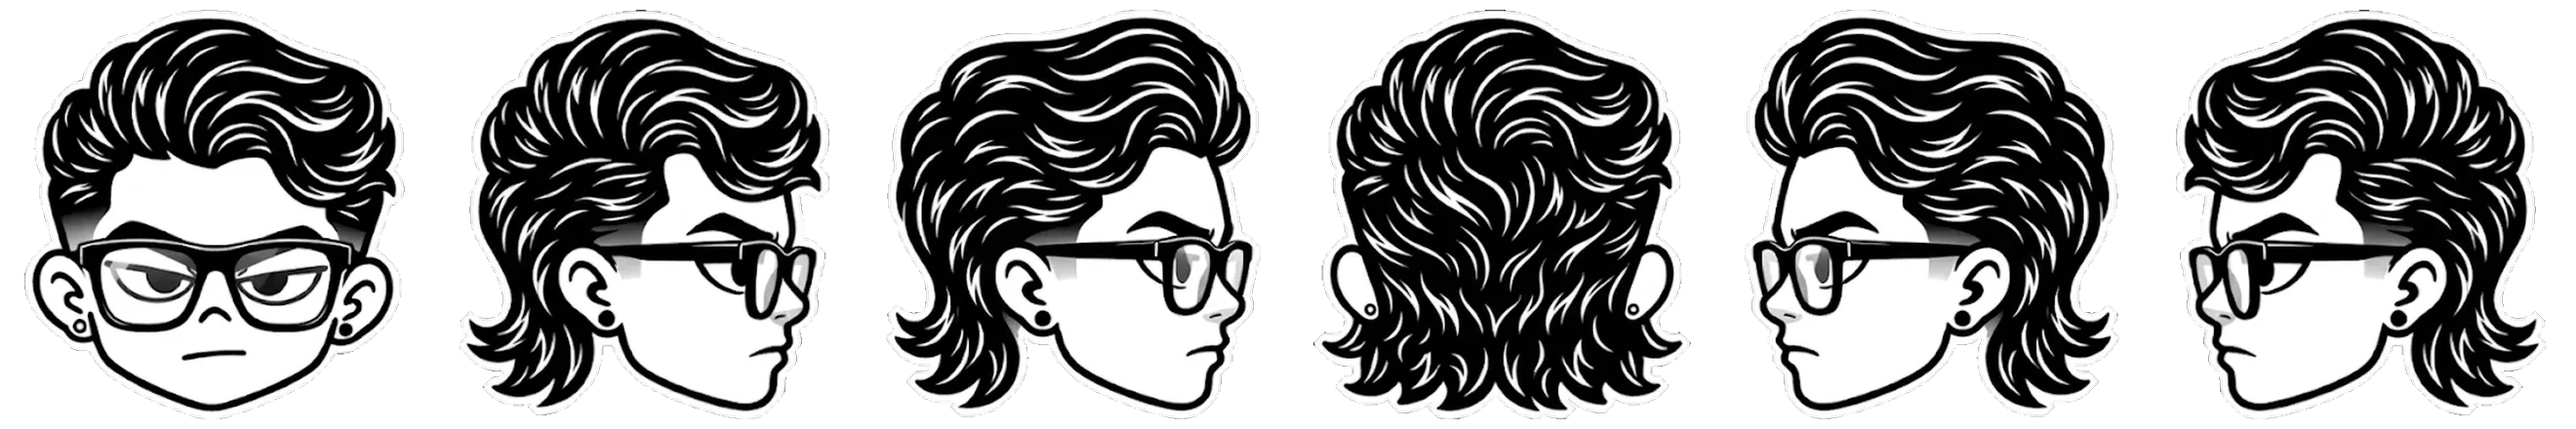
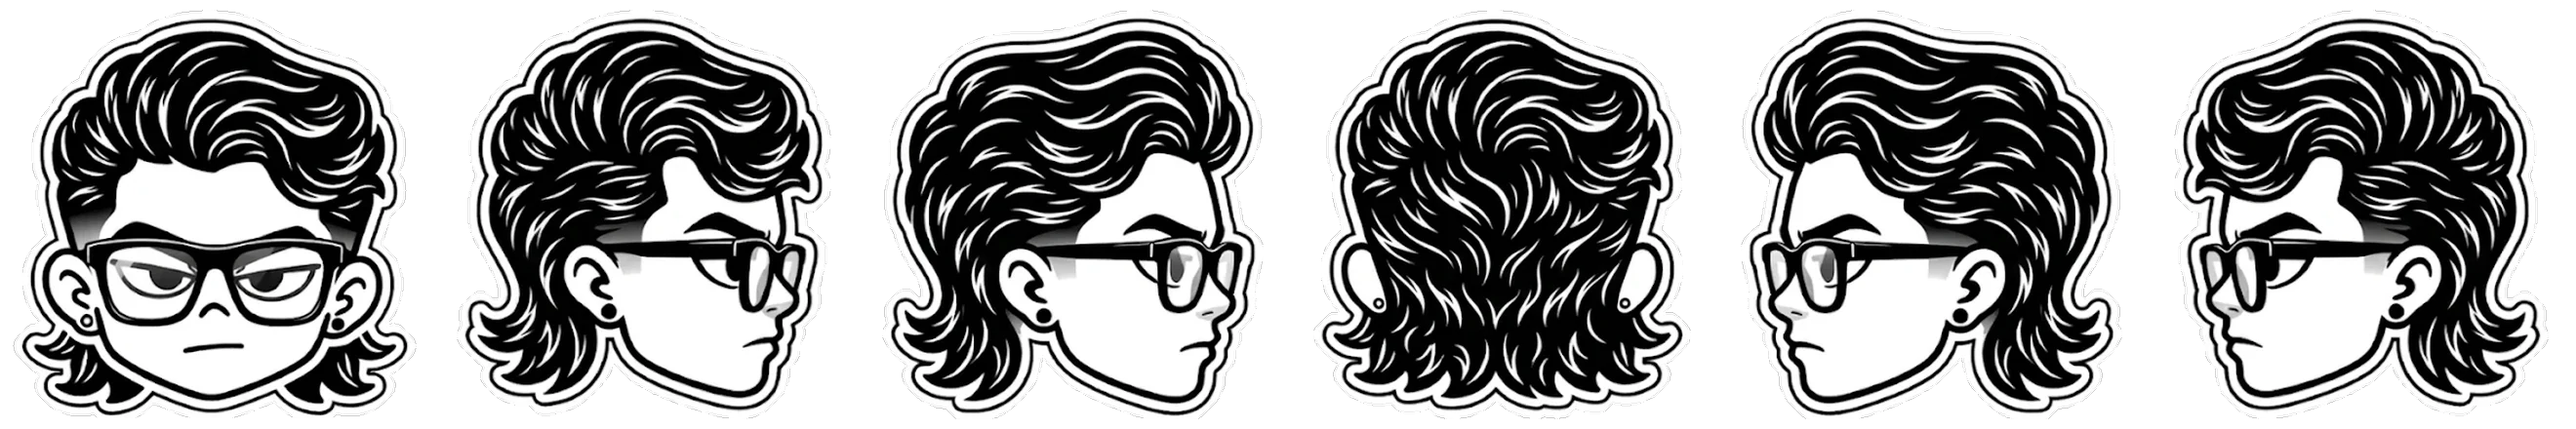
Imagen del giro con el pelo completo

diff --git a/public/css/styles.css b/public/css/styles.css
@@ -472,7 +472,7 @@ img.skill__icon { display: block; width: 52px; height: 52px; padding: 0; border-
 }
 .head-spin {
   width: 82%; aspect-ratio: 1;
-  background: url("../img/cabeza-giro.webp") 0 0 / 600% 100% no-repeat;
+  background: url("../img/cabeza-giro.webp?v=3") 0 0 / 600% 100% no-repeat;
   animation: head-frames 4s step-end infinite, head-bob 4s ease-in-out infinite;
   translate: 0 -4%;
   filter: drop-shadow(0 10px 18px rgba(0,0,0,.45));
